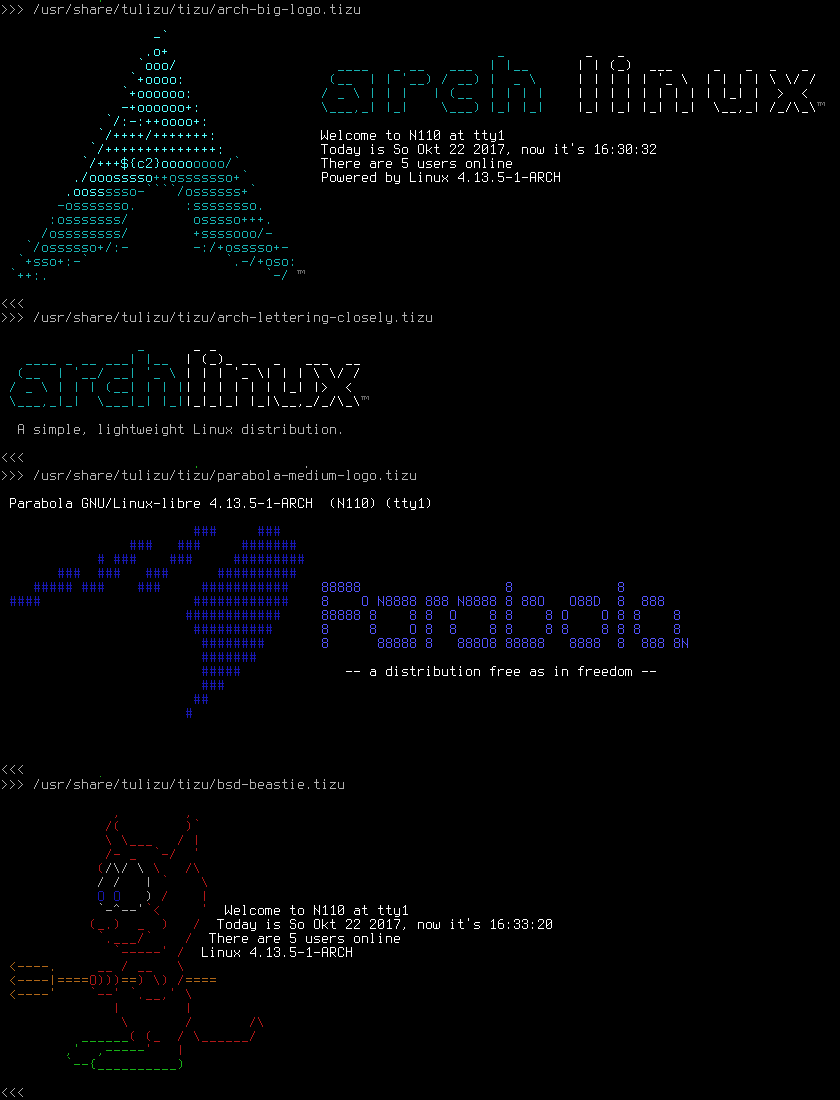
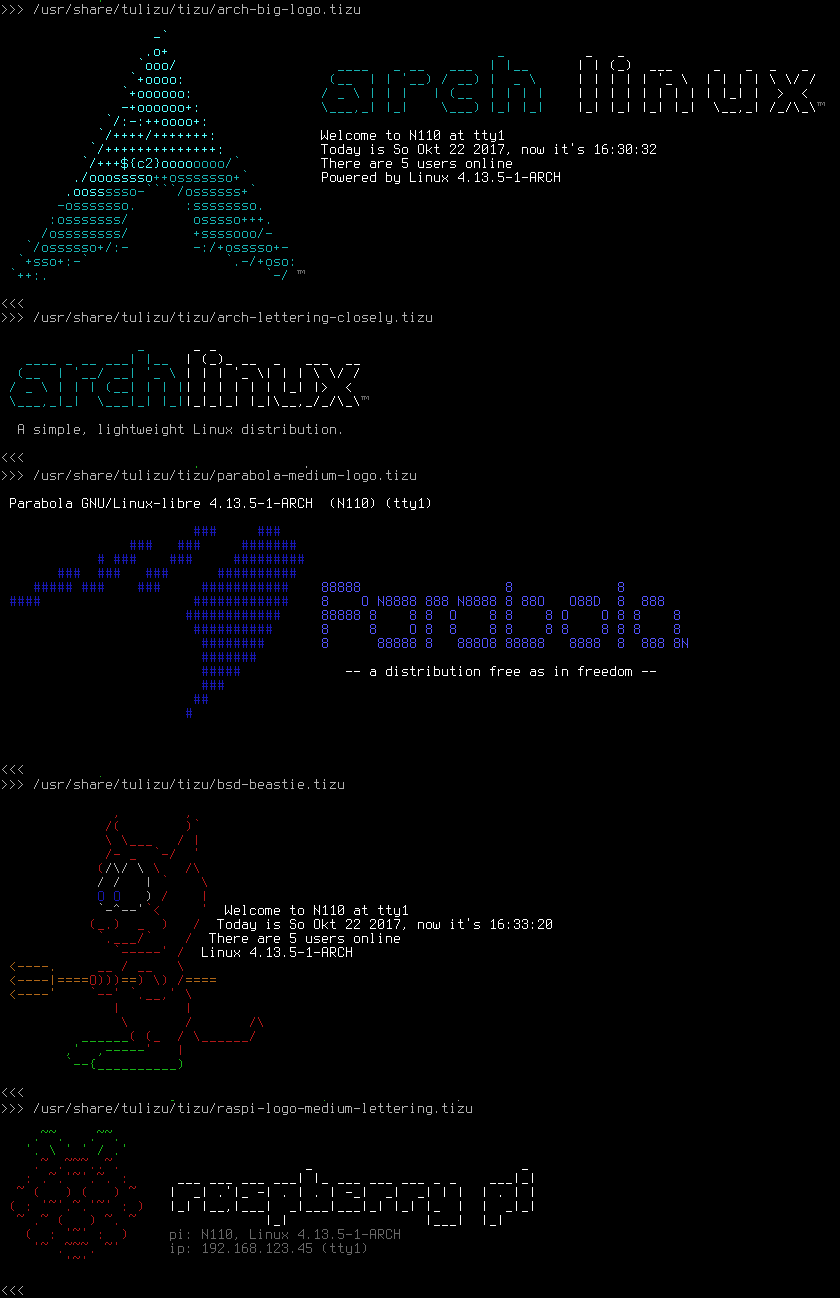
Changes to fit version v0.2

diff --git a/README.md b/README.md
@@ -2,19 +2,27 @@
 Furthermore it may helpful at the creation process of such an issue file when
 there are ASCII arts included.
 
-**tulizu** is shipped with a modest collection of ASCII art issue files ready to
-use for Arch Linux users and some samples for other distributions.
+For this purpose **tulizu** uses its own tizu file format which allows to set
+options for different kind of resulting issue file.
 
-**Last, and very first, version is 0.1 released Feb, 2016**
+**tulizu** is shipped with a modest collection of ASCII art issue/tizu files
+ready to use for Arch Linux users and some samples for other systems.
 
-### Available Issues For Distributions
+You are cordially invited to include _your_ fancy issue/tizu file to **tulizu**
+to help to build a nice data base of issue/tizu files.
+
+It's name, if it is not clear, is a quibble of 'issue tool' and is in such to be
+pronounced contracted like 'toolishoo'.
+
+**Last version is 0.2 released Okt, 2017**
+
+### Available Issues For Systems
 
   - Arch Linux
   - Black Arch
   - BSD
   - Parabola
-
-You are cordially invited to include _your_ fancy issue/tizu file to **tulizu**.
+  - Raspberry Pi
 
 ### Screenshots
 
@@ -22,16 +30,16 @@ These shots are here to give you an idea what you will get. They are slightly
 faked to become more handy. So don't be curious if you can't reproduce the exact
 output.
 
-A brief glimpse of the collection
+#### A brief glimpse of the collection
 ![Brief Glimpse](brief-glimpse-collection.png)
 
-List available files matching "arch*tizu"
+#### List available files matching "arch*tizu"
 ![List Files](list-arch-tizu.png)
 
-Show details of files
+#### Show details of files
 ![List Info](list-tizu-info.png)
 
-Show variations of files using different color settings
+#### Show variations of files using different color settings
 ![Variations](show-variations.png)
 
 ### Further Readings
